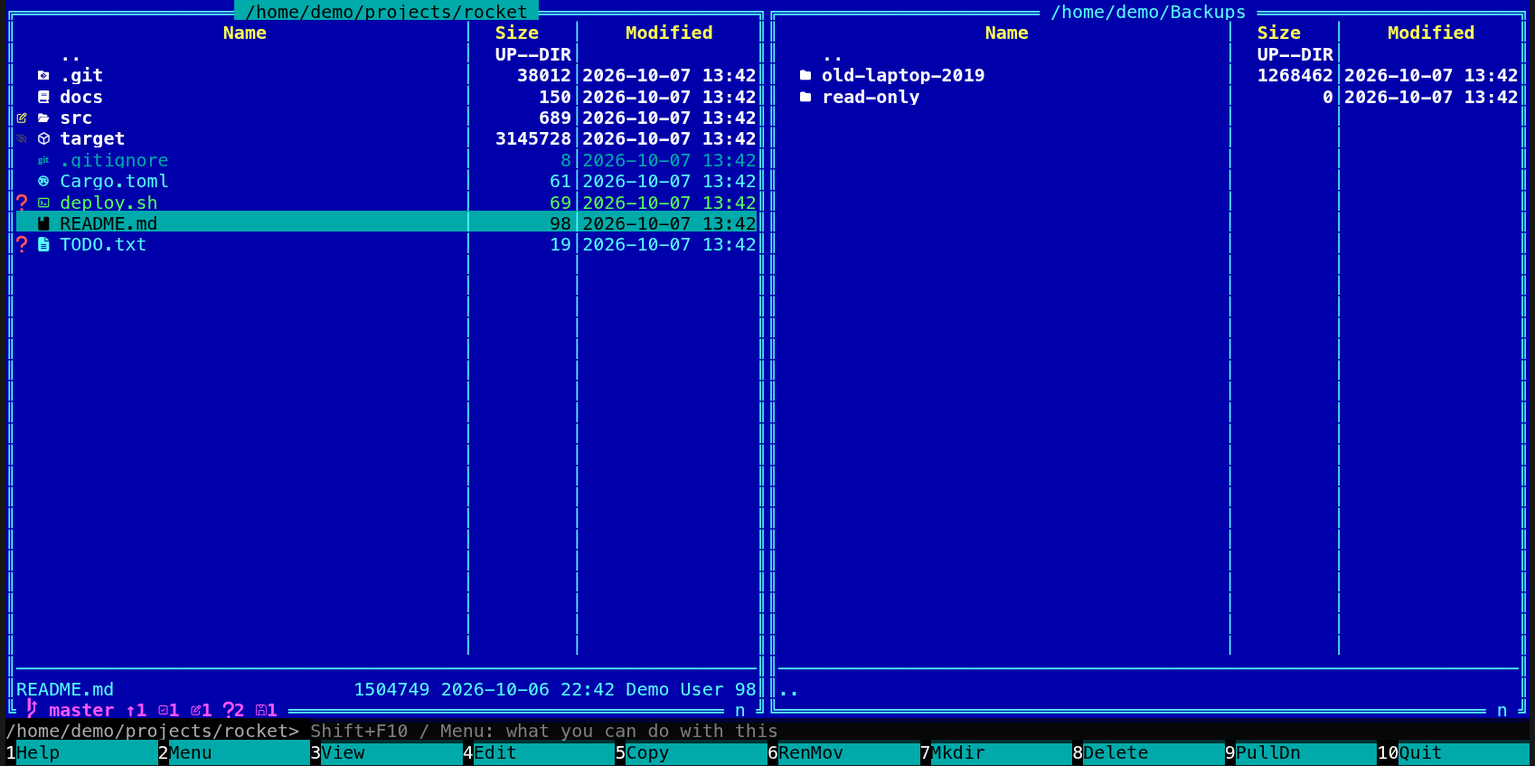
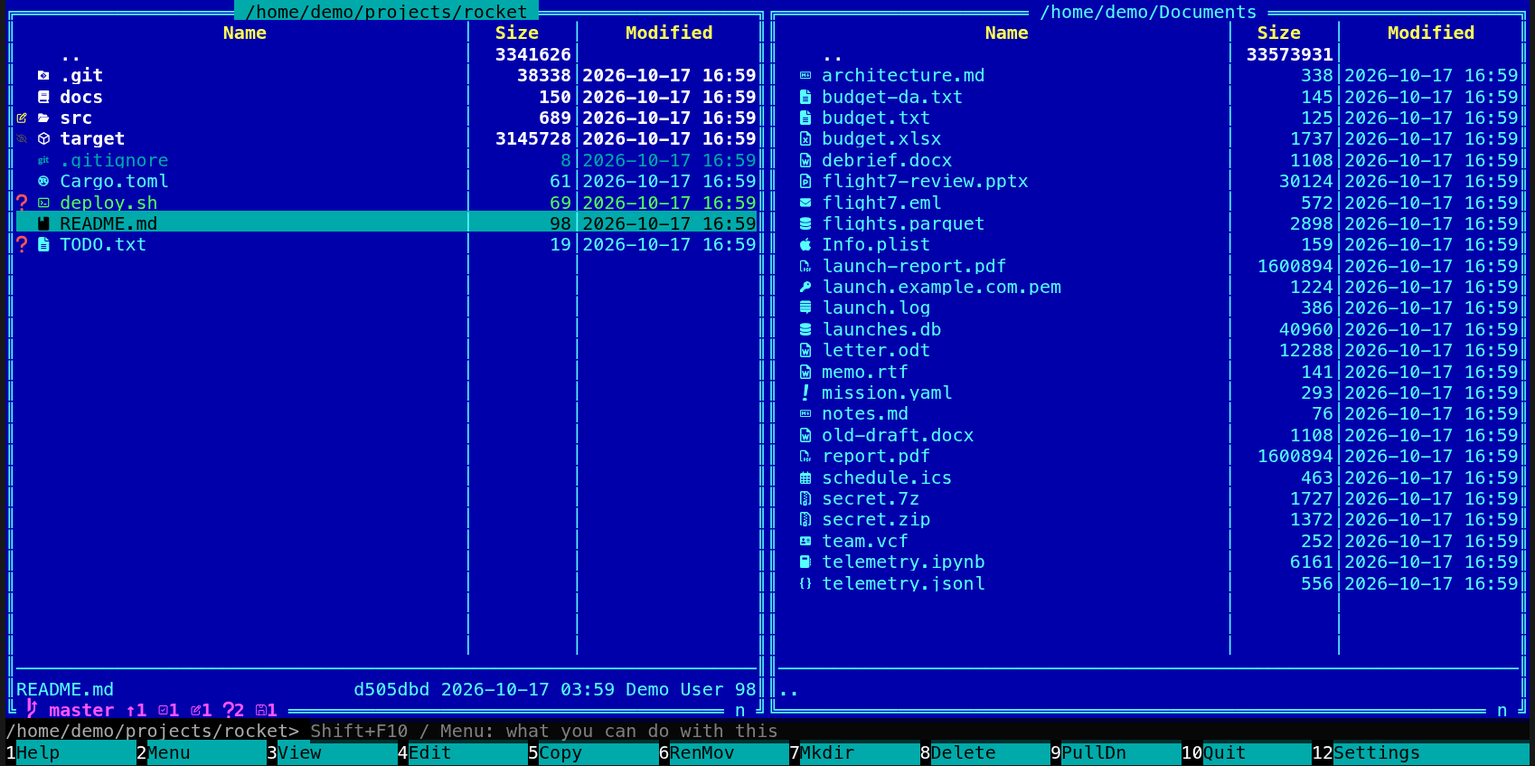
Settings easy to find in the terminal app: F12 on the key bar and in the action menu, a word when Ctrl+O hides the panels, and the coxswain at the helm (2.26.1)

diff --git a/crates/coxswain/src/lib.rs b/crates/coxswain/src/lib.rs
@@ -2586,6 +2586,8 @@ fn run_in(sh: &str, flag: &str, cmd: &str, dir: &Path, wait: bool) -> std::io::R
 
 fn main_loop(term: &mut DefaultTerminal, app: &mut App) -> std::io::Result<()> {
     let mut state = app.index.state();
+    // A command has run: Ctrl+O shows its output, or says there is none yet.
+    let mut ran = false;
     // A file operation still running when asked to quit finishes first: cut short, it
     // would leave half a file behind.
     while !app.quit || app.job.is_some() {
@@ -2593,6 +2595,7 @@ fn main_loop(term: &mut DefaultTerminal, app: &mut App) -> std::io::Result<()> {
         match app.run.take() {
             Some(Run::Shell { cmd, dir, wait }) => {
                 suspended(term, || run_shell(&cmd, &dir, wait))?;
+                ran = true;
                 // The setup guide, run from Find, changes the search settings.
                 // An entry added to the user menu shows at once.
                 if let Ok(cfg) = Config::load() {
@@ -2606,9 +2609,18 @@ fn main_loop(term: &mut DefaultTerminal, app: &mut App) -> std::io::Result<()> {
                 app.reload();
             }
             Some(Run::ShowOutput) => suspended(term, || {
-                // Any key returns to the panels.
+                // A line under the output says what happened; any key returns to the panels
+                // and takes the line away again.
+                use ratatui::crossterm::style::{Attribute, Print, SetAttribute};
                 let _ = terminal::enable_raw_mode();
+                let mut out = std::io::stdout();
+                if cursor::position().is_ok_and(|(x, _)| x > 0) {
+                    let _ = execute!(out, Print("\r\n"));
+                }
+                let say = t!(if ran { "tui.panels_hidden" } else { "tui.panels_hidden_none" });
+                let _ = execute!(out, SetAttribute(Attribute::Reverse), Print(say), SetAttribute(Attribute::Reset));
                 while !matches!(event::read(), Ok(Event::Key(k)) if k.kind == KeyEventKind::Press) {}
+                let _ = execute!(out, Print("\r"), terminal::Clear(terminal::ClearType::CurrentLine));
                 let _ = terminal::disable_raw_mode();
             })?,
             None => {}
@@ -3686,11 +3698,12 @@ mod wide_letters {
             let text: Vec<usize> = (0..info.len()).filter(|&x| info[x] != " ").collect();
             let (l, r) = (text[0], info.len() - 1 - text[text.len() - 1]);
             assert!(l.abs_diff(r) <= 2, "{lang}: not centred: {}", info.concat());
-            // The key bar: each key number in its own slot.
+            // The key bar: each key number in its own slot, F12 (Settings) in the eleventh.
             let bar = &s[23];
             for n in 1..=9 {
-                assert_eq!(bar[(n - 1) * 8], n.to_string(), "{lang}: {}", bar.concat());
+                assert_eq!(bar[(n - 1) * 7], n.to_string(), "{lang}: {}", bar.concat());
             }
+            assert_eq!(bar[70..72].concat(), "12", "{lang}: {}", bar.concat());
             // Find, with a Japanese query, and a dialog with a long Korean text.
             app.dialog = Some(Dialog::Search { query: "日本語 보고서".into(), chip: Kind::All, here: false, found: Found::default(), cursor: 0, offset: 0, show: Show::List });
             let s = draw(&mut app);

diff --git a/crates/coxswain-core/src/menu.rs b/crates/coxswain-core/src/menu.rs
@@ -107,24 +107,24 @@ impl Action {
             Duplicates => disk && (s.folders > 0 || n == 0),
             // On `..` with nothing marked: the panels themselves.
             SwapPanels | SameDir | TogglePanels => n == 0,
-            // What Coxswain can do, from any menu.
-            Features => true,
+            // What Coxswain can do, and Settings, from any menu.
+            Features | Settings => true,
             _ => false,
         }
     }
 }
 
-/// The headings the action menu shows, in its order: opening and looking first, the app (what
-/// Coxswain can do) last.
+/// The headings the action menu shows, in its order: opening first, then the app (Settings,
+/// what Coxswain can do), so Settings is found near the top, then looking and the rest.
 const GROUPS: [Group; 8] = [
     Group::Moving,
+    Group::App,
     Group::Viewing,
     Group::Files,
     Group::Archives,
     Group::Search,
     Group::Git,
     Group::Panels,
-    Group::App,
 ];
 
 /// The action menu for `s`: under each heading the actions that fit, the most used first.
@@ -155,6 +155,7 @@ const HINTS: &[(&str, &[(&str, Action)])] = &[
     ("menu", &[("key", Action::ActionMenu)]),
     ("find", &[("key", Action::Search)]),
     ("features", &[("key", Action::Help)]),
+    ("settings", &[("key", Action::Settings)]),
     ("quick", &[]),
     (
         "panels",
@@ -191,7 +192,7 @@ fn fits(id: &str, s: &Subject) -> bool {
     let disk = s.place == Place::Disk;
     match id {
         "menu" => s.count() > 0,
-        "find" | "features" => true,
+        "find" | "features" | "settings" => true,
         "quick" => disk && s.count() > 0,
         "panels" => disk && s.count() == 0,
         "marked" => s.marked > 1 && s.writable(),
@@ -331,9 +332,9 @@ mod tests {
         };
         let n = names(&file, true);
         assert_eq!(
-            &n[..3],
-            ["open", "view", "edit"],
-            "opening and looking first: {n:?}"
+            &n[..5],
+            ["open", "features", "settings", "view", "edit"],
+            "opening first, Settings near the top, then looking: {n:?}"
         );
         for a in ["copy", "move", "rename", "delete", "pack", "properties"] {
             assert!(n.contains(&a), "{a} in {n:?}");
@@ -481,6 +482,9 @@ mod tests {
         assert_eq!(pick(&folder, &cfg, &shown).map(|h| h.0), Some("features"));
         assert!(pick(&folder, &cfg, &shown).unwrap().1.contains("F1"));
         shown.insert("features".to_string(), TIMES);
+        assert_eq!(pick(&folder, &cfg, &shown).map(|h| h.0), Some("settings"));
+        assert!(pick(&folder, &cfg, &shown).unwrap().1.contains("F12"));
+        shown.insert("settings".to_string(), TIMES);
         assert_eq!(pick(&folder, &cfg, &shown).map(|h| h.0), Some("quick"));
         shown.insert("quick".to_string(), TIMES);
         let parent = Subject::default();

diff --git a/crates/coxswain/src/ui.rs b/crates/coxswain/src/ui.rs
@@ -346,17 +346,22 @@ fn cmdline(f: &mut Frame, app: &App, area: Rect) {
 
 fn keybar(f: &mut Frame, app: &App, area: Rect) {
     let t = &app.theme;
-    let slot = area.width as usize / 10;
+    // F1 to F10 as in NC, then F11 and F12 when they run something (F12: Settings).
+    let fkey = |n| app.keymap.get(&Key::new(KeyCode::F(n), false, false, false));
+    let keys: Vec<u8> = (1..=12u8).filter(|&n| n <= 10 || fkey(n).is_some()).collect();
+    let slot = area.width as usize / keys.len();
     let mut spans = vec![];
-    for n in 1..=10u8 {
+    for (i, &n) in keys.iter().enumerate() {
         // The keymap, so the bar names the action the key runs when two share it.
         // Norton Commander's short words where the plain ones do not fit: RenMov, Mkdir, PullDn.
-        let label = app.keymap.get(&Key::new(KeyCode::F(n), false, false, false)).map_or(String::new(), |a| match a {
+        let label = fkey(n).map_or(String::new(), |a| match a {
             Action::Move | Action::NewFolder | Action::Menu => t!(&format!("tui.keybar.{}", a.name())),
             a => a.label(),
         });
         let num = n.to_string();
-        let lw = slot.saturating_sub(num.len());
+        // The last slot takes what is left over, so "12Settings" fits in 80 columns.
+        let w = if i + 1 == keys.len() { area.width as usize - slot * i } else { slot };
+        let lw = w.saturating_sub(num.len());
         spans.push(Span::styled(num, sty(&t.keybar_num)));
         spans.push(Span::styled(fit(&label, lw), sty(&t.keybar_label)));
     }

diff --git a/crates/coxswain-core/src/config.rs b/crates/coxswain-core/src/config.rs
@@ -270,7 +270,8 @@ actions! {
     // F1's second tab, and F1 inside a dialog: no key of its own.
     Features = "features", "Features and questions", App, [];
     Menu = "menu", "Commands", App, ["F9"];
-    Settings = "settings", "Settings", App, ["Ctrl+,"];
+    // F12 too: most terminals never pass Ctrl+, on, and every one passes F12.
+    Settings = "settings", "Settings", App, ["Ctrl+,", "F12"];
     // Settings at Disk use: from F9 and the action menu, no key of its own.
     DiskUse = "disk_use", "Disk use", App, [];
     Quit = "quit", "Quit", App, ["F10"];

diff --git a/README.md b/README.md
@@ -125,8 +125,8 @@ from source: [install/INSTALL.md](install/INSTALL.md). Git glyphs want a
    `coxswain --setup-search` ([the guide](docs/search/setup.md)).
 5. **Type** a command and press **Enter**: it runs in the panel's folder.
 6. **Settings**, sorted by task (Finding files, Previews, Looks, Behaviour, Keys, Privacy and
-   updates): **Ctrl+,** in the desktop app, **F9** → *Settings* or `coxswain --settings` in the
-   terminal app. In the desktop app, **Space** shows the preview pane.
+   updates): **Ctrl+,** or the gear button in the desktop app, **F12** (*Settings* at the right end
+   of the key bar), **Shift+F10** → *Settings* or **F9** → *Settings* in the terminal app. In the desktop app, **Space** shows the preview pane.
 7. Not sure what you can do with a file? **Shift+F10** (or the **Menu** key, or the **⋯** on the
    row) lists what fits it, each with its key: pack, extract, rename, history
    ([The action menu](docs/panels/action-menu.md)). Forgot a key? **F9** lists every command,
@@ -176,6 +176,7 @@ Newest first. Downloads for each release are on the [releases page](https://gith
 
 | Version | Date | What's new |
 |---|---|---|
+| **2.26.1** | 2026-10-17 | **Settings you can find in the terminal app, and a word when the panels hide.** The terminal app's key bar ends in *12 Settings*: **F12** opens Settings in every terminal, where most never pass **Ctrl+,** on (the desktop app takes **F12** too). Settings is also near the top of the **Shift+F10** action menu, and a hint names its keys the first few times. **Ctrl+O** no longer just makes the panels vanish: a line under the output says *Panels hidden · any key brings them back*, or that no command has run yet. And F1's line now calls the coxswain what it is: the one at the helm, in every language. [Opening Settings](docs/customise/settings.md#opening-it) |
 | **2.26.0** | 2026-10-17 | **How far behind, and as of when.** Hover the git line in the desktop app, or put the cursor on `..` in the terminal app, for the branch's upstream with the commits ahead and behind, the time of the last fetch and the remote's URL (with any password or token left out). A repository's folder in a listing, such as a project in `~/projects` or a submodule, shows its git line and the same facts when you hover it or put the cursor on it. They are read only when you point at them, never for a whole folder, and Coxswain still never fetches. [Upstream, remote and last fetch](docs/panels/git.md#upstream-remote-and-last-fetch) |
 | **2.25.0** | 2026-10-16 | **Themes in groups, and a word about your graphics card.** Settings in both apps lists the 33 themes the way the languages are listed by region: Coxswain's own, the file managers of the DOS years, Windows, Mac, other desktops and home computers, then your own. A PC with a graphics card and no model server is told, in the setup guide and once as a notice, that a local Ollama would run search by meaning and Ask on the card much faster, with the install line for FreeBSD (`pkg install ollama`, Vulkan), Linux or Windows; Intel cards and FreeBSD's AMD and Intel cards are now detected. `..` shows the size of the folder above when it is already known. [Themes](docs/customise/themes.md) · [Setup](docs/search/setup.md#a-graphics-card-and-no-server) · [Folder sizes](docs/panels/folder-sizes.md) |
 | **2.24.4** | 2026-10-16 | **FreeBSD tried by hand, and what it found.** Find shows names in folders made since the search helper started within a second on FreeBSD, the other BSDs and illumos (and new top-level folders on Linux), and lists a name that is exactly your query first, then hits in your home folder. The desktop app's sidebar shows the right free space on the BSDs; `coxswain-gui --version` and `--help` work, and without a display it says so instead of crashing. Folder sizes update after copy, move, delete, new folder, pack, extract and undo, in both apps; after **Ctrl+Z** the cursor is on what came back; Properties shows owner and group by name. On the BSDs and illumos, Previews names the program to install instead of podman or docker, and *Never indexed* lists that system's own folders. An older Coxswain no longer throws away the vectors a newer one made. sevenz-rust2 0.24 (a 7z written with a CRC of exactly 0 opens again) and zip 9.0.4. [FreeBSD](docs/reference/freebsd.md) |
@@ -185,6 +186,5 @@ Newest first. Downloads for each release are on the [releases page](https://gith
 | **2.24.0** | 2026-10-15 | **The classics: fifteen more themes, and a tube for any of them.** Amiga Workbench 1.3, the home of Directory Opus, with a look of its own; XTree Gold, DOS Shell and Midnight Commander beside Norton Commander blue; the home computers Commodore 64, ZX Spectrum, Amstrad CPC, MSX, BBC Micro and Atari ST (with a GEM look); Amber and Paper white beside Cyber; NeXTSTEP and BeOS with looks of their own, and OS/2 Warp. `crt = true` in a theme of your own puts Cyber's scanlines and glow over any look. [Themes](docs/customise/themes.md) · [Looks](docs/customise/looks.md#the-tube) |
 | **2.23.1** | 2026-10-14 | **TLS library brought up to date.** rustls 0.23.46 closes four advisories published today (RUSTSEC-2026-0346 to 0349: a `Debug` print that could show session secrets, data sent on after a rejected ECH, an oversized certificate allocation, and a key-exchange downgrade), in every connection the apps make: the update check, model downloads and remote model servers. No advisories open. [Security](docs/reference/security.md) |
 | **2.23.0** | 2026-10-14 | **Measure the speed of search by meaning.** *Measure speed* on the *Meaning* line of Settings → Finding files (both apps), or `coxswain --meaning bench`, embeds 64 passages with your model and says how many a second it does and what the files still to go would take; `coxswain --meaning bench URL MODEL` tries another server first, without changing anything. [Search by meaning](docs/search/meaning.md#how-fast-is-it-here-and-would-another-model-be-faster) |
-| **2.22.1** | 2026-10-14 | **Search by meaning: a time left that holds, and dense files cost less.** The time left in Settings and Find counts the passages still to go, not the files, so a few long files at the head of the queue no longer turn it into a thousand hours. A server is shown at most 1,200 characters of a passage (2,000 before): prose is never that long, a line of minified JSON or paths was three passages' worth. An app whose helper is busy with a big change waits for it instead of switching to its own index until restarted, and a helper that finds the store locked for a moment waits too instead of leaving reading off. [Search by meaning](docs/search/meaning.md#why-does-it-find-nothing-yet) |
 
 All versions, back to 1.0.0: [the full changelog](docs/changelog.md).

diff --git a/docs/panels/action-menu.md b/docs/panels/action-menu.md
@@ -11,7 +11,7 @@ it*.
 
 <picture><source media="(prefers-reduced-motion: reduce)" srcset="../screenshots/action-menu.png"><img src="../screenshots/action-menu.gif" alt="The desktop app: the cursor on the folder src, Shift+F10 opens What to do with &quot;src&quot; with Open, Path to command line, Copy, Move, Rename, Delete, New folder, Pack into an archive and the git entries under their headings; Down moves to Rename, Enter asks for the new name"></picture>
 
-![The terminal app's action menu on a file: What to do with "README.md", with Open, View, Edit and Path to command line under Moving and Viewing, Copy, Move, Rename, Delete, New folder and Properties under Files, Pack under Archives, Git history, Git branches and Git worktrees under Git, Features and questions under App](../screenshots/action-menu-tui.png)
+![The terminal app's action menu on a file: What to do with "README.md", with Open under Moving, Features and questions and Settings (Ctrl+,) under App, View, Edit and Path to command line under Viewing, Copy, Move, Rename, Delete, New folder and Properties under Files, Pack under Archives, Find, Find in files and Ask under Search, Git history, Git branches and Git worktrees under Git; the key bar ends in 12 Settings](../screenshots/action-menu-tui.png)
 
 - [Opening the menu](#opening-the-menu)
 - [What it lists](#what-it-lists)
@@ -49,13 +49,13 @@ asks first (unless you turned that off).
 ## What it lists
 
 The actions that fit, under the headings of the [command list](command-list.md), in this order:
-opening and looking first, then files, archives, search, git, the panels and the app; in each
-heading the most used first (*Moving*, *Viewing*, *Files*, *Archives*, *Search*, *Git*, *Panels*,
-*App*).
+opening first, then the app (Features and questions, Settings), so Settings is near the top,
+then looking, files, archives, search, git and the panels; in each heading the most used first
+(*Moving*, *App*, *Viewing*, *Files*, *Archives*, *Search*, *Git*, *Panels*).
 
 | Under the cursor (or marked) | The menu lists |
 |---|---|
-| Anything, anywhere | Find (**Alt+F7**, **Ctrl+F**), Search inside files (**Shift+F7**), Ask your files (**Ctrl+F7**) under *Search*; [Features and questions](features.md) under *App* |
+| Anything, anywhere | Find (**Alt+F7**, **Ctrl+F**), Search inside files (**Shift+F7**), Ask your files (**Ctrl+F7**) under *Search*; [Features and questions](features.md) and [Settings](../customise/settings.md) (**Ctrl+,**, **F12**) under *App* |
 | A file | Open, View (**F3**), Edit (**F4**), Path to command line (**Ctrl+Enter**), Folder notes (**Alt+N**, desktop app), Copy (**F5**), Move (**F6**), Rename (**Shift+F6**), Delete (**F8**), New folder (**F7**), Copy to clipboard (**Ctrl+C**, desktop app), Properties (**Alt+Enter**), Colour tag (**Alt+T**, desktop app), Pack into an archive (**Alt+F5**) |
 | A folder | Open, Path to command line, Folder notes, Copy, Move, Rename, Delete, New folder, Copy to clipboard, Properties, Colour tag, Pack into an archive, Find duplicates (**Ctrl+D**, desktop app) |
 | An archive (zip, tar, 7z …) | What a file has, and Extract archive (**Ctrl+E**); Open goes into it like a folder |
@@ -86,6 +86,7 @@ the cursor, in a dim colour. The first ones teach the menu itself; then they tea
 | Anything | *Shift+F10 / Menu: what you can do with this* |
 | Anywhere | *Alt+F7 / Ctrl+F finds anything on this machine* |
 | Anywhere | *F1 → Features: everything Coxswain can do, with questions answered* ([Features and questions](features.md)) |
+| Anywhere | *Ctrl+, / F12 opens Settings: theme, keys, language and every other option* ([Settings](../customise/settings.md)) |
 | A file or folder | *Alt+letter jumps to a name: type how it starts* ([Quick search](quick-search.md)) |
 | `..`, nothing marked | *Ctrl+U swaps the panels · Alt+O shows this folder in the other one · Ctrl+O panels on or off* |
 | Several marked | *F5 copies them to the other panel · F6 moves them* |

diff --git a/docs/customise/settings.md b/docs/customise/settings.md
@@ -35,7 +35,8 @@ once and is written to the file, your comments kept.
 
    | Way | Opens at |
    |---|---|
-   | **Ctrl+,** anywhere in the window (the `settings` action; see [Changing keys](keys.md)) | Overview |
+   | **Ctrl+,** or **F12** anywhere in the window (the `settings` action; see [Changing keys](keys.md)) | Overview |
+   | **Shift+F10** → *Settings* in the [action menu](../panels/action-menu.md), near the top | Overview |
    | **F9** → *Settings* in the [command list](../panels/command-list.md) | Overview |
    | The **Settings** button with a gear, at the right end of the command line row. Its tooltip names the key and, when tips or versions wait, how many and where: *Settings · Ctrl+, · What's new: 2, under Overview* | Overview, where *What's new* is ([Notices and what's new](../search/notices.md)) |
    | **Show me** on a tip under *What's new* | The tip's area: the meaning and Ollama tips open *Finding files* at *Meaning*, the tesseract and cloud tips *Finding files*, a new language *Looks* at *Language*, the 2.0 renaming notice *Keys* |
@@ -373,8 +374,10 @@ explanations and costs: both apps read them from one description in `coxswain-co
 
 | Way | Opens at |
 |---|---|
+| **F12**: *12 Settings* at the right end of the F-key bar | Overview |
+| **Shift+F10** → *Settings* in the [action menu](../panels/action-menu.md), near the top | Overview |
 | **F9** → *Settings* in the [command list](../panels/command-list.md) | Overview |
-| **Ctrl+,** (the `settings` action), in terminals that pass it on | Overview |
+| **Ctrl+,** (the `settings` action's other key), in terminals that pass it on | Overview |
 | `coxswain --settings` | Overview, with both panels in the current folder |
 | `coxswain --settings=<area>` | That area: `overview`, `search`, `previews`, `looks`, `behaviour`, `keys`, `privacy` |
 | `coxswain --settings=<option>` | The option's area, the cursor on it: `show_hidden`, `search_meaning`, `ask_model`, `language`, `check_updates` … (the names in [Settings and config.toml](#settings-and-configtoml)) |
@@ -382,6 +385,9 @@ explanations and costs: both apps read them from one description in `coxswain-co
 | **Enter** on a tip under *What's new* in Overview | The tip's area, as *Show me* in the desktop app; the tip is not shown again |
 
 Folders after the flag open in the panels, as without it: `coxswain --settings=search ~/src`.
+
+The first few times, the empty command line says so too: *Ctrl+, / F12 opens Settings: theme,
+keys, language and every other option*.
 
 ### The keys
 
@@ -544,11 +550,12 @@ updates* lists what can leave with your settings as they are, and where to.
 
 #### Where is the Settings key if Ctrl+, does nothing?
 
-`Ctrl+,` is the default of the `settings` action; if you rebound it in `[keys]`, the gear
-button's tooltip shows the key it has now, and so does *Keys* in Settings. **F9** → *Settings*
-and the gear button always work. Most terminals send **Ctrl+,** as a plain comma or not at all,
-so in the terminal app use **F9** → *Settings* or `coxswain --settings`, or give the action a key
-the terminal passes on, such as `settings = ["Alt+,"]` under `[keys]` ([Changing keys](keys.md)).
+**Ctrl+,** and **F12** are the defaults of the `settings` action; if you rebound them in
+`[keys]`, the gear button's tooltip shows the key it has now, and so does *Keys* in Settings.
+Most terminals send **Ctrl+,** as a plain comma or not at all, so the terminal app has **F12**
+too, and shows it as *12 Settings* at the right end of the F-key bar. **Shift+F10** →
+*Settings* (near the top of the action menu), **F9** → *Settings*, the gear button in the
+desktop app and `coxswain --settings` always work.
 
 #### What does Clear under "Previews made so far" remove?
 

diff --git a/docs/changelog.md b/docs/changelog.md
@@ -6,6 +6,7 @@ Every version, newest first. Downloads are on the [releases page](https://github
 
 | Version | Date | What's new |
 |---|---|---|
+| **2.26.1** | 2026-10-17 | **Settings you can find in the terminal app, and a word when the panels hide.** The terminal app's key bar ends in *12 Settings*: **F12** opens Settings in every terminal, where most never pass **Ctrl+,** on (the desktop app takes **F12** too). Settings is also near the top of the **Shift+F10** action menu, and a hint names its keys the first few times. **Ctrl+O** no longer just makes the panels vanish: a line under the output says *Panels hidden · any key brings them back*, or that no command has run yet. And F1's line now calls the coxswain what it is: the one at the helm, in every language. [Opening Settings](customise/settings.md#opening-it) |
 | **2.26.0** | 2026-10-17 | **How far behind, and as of when.** Hover the git line in the desktop app, or put the cursor on `..` in the terminal app, for the branch's upstream with the commits ahead and behind, the time of the last fetch and the remote's URL (with any password or token left out). A repository's folder in a listing, such as a project in `~/projects` or a submodule, shows its git line and the same facts when you hover it or put the cursor on it. They are read only when you point at them, never for a whole folder, and Coxswain still never fetches. [Upstream, remote and last fetch](panels/git.md#upstream-remote-and-last-fetch) |
 | **2.25.0** | 2026-10-16 | **Themes in groups, and a word about your graphics card.** Settings in both apps lists the 33 themes the way the languages are listed by region: Coxswain's own, the file managers of the DOS years, Windows, Mac, other desktops and home computers, then your own. A PC with a graphics card and no model server is told, in the setup guide and once as a notice, that a local Ollama would run search by meaning and Ask on the card much faster, with the install line for FreeBSD (`pkg install ollama`, Vulkan), Linux or Windows; Intel cards and FreeBSD's AMD and Intel cards are now detected. `..` shows the size of the folder above when it is already known. [Themes](customise/themes.md) · [Setup](search/setup.md#a-graphics-card-and-no-server) · [Folder sizes](panels/folder-sizes.md) |
 | **2.24.4** | 2026-10-16 | **FreeBSD tried by hand, and what it found.** Find shows names in folders made since the search helper started within a second on FreeBSD, the other BSDs and illumos (and new top-level folders on Linux), and lists a name that is exactly your query first, then hits in your home folder. The desktop app's sidebar shows the right free space on the BSDs; `coxswain-gui --version` and `--help` work, and without a display it says so instead of crashing. Folder sizes update after copy, move, delete, new folder, pack, extract and undo, in both apps; after **Ctrl+Z** the cursor is on what came back; Properties shows owner and group by name. On the BSDs and illumos, Previews names the program to install instead of podman or docker, and *Never indexed* lists that system's own folders. An older Coxswain no longer throws away the vectors a newer one made. sevenz-rust2 0.24 (a 7z written with a CRC of exactly 0 opens again) and zip 9.0.4. [FreeBSD](reference/freebsd.md) |

diff --git a/docs/commands/command-line.md b/docs/commands/command-line.md
@@ -83,7 +83,7 @@ without the AppImage's own libraries in their environment.
 | While it runs | The panels step aside. The terminal shows `/home/demo/projects/rocket> git log` and then the command's own output; the program has the real terminal and can read keys | The status line says *Running git log…*. The app stays usable |
 | Afterwards | The panels come back at once | The [preview pane](../previews/README.md) opens and shows the output, headed with the command in bold and *Command output* under it |
 | Output shown | As the program writes it | Standard output, then standard error, then `[exit status: 1]` on a line of its own when it failed. A command that printed nothing shows *(no output)* |
-| Look again | **Ctrl+O** (*Panels on/off*) hides the panels and shows the terminal with the last output; any key brings the panels back | The `×` in the output's header (*Close the command output and show the preview again*) goes back to the file preview; **Esc**, **F3** or **Space** close the pane |
+| Look again | **Ctrl+O** (*Panels on/off*) hides the panels and shows the terminal with the last output, with *Panels hidden · any key brings them back* under it (*No command has run yet · any key brings the panels back* before the first); any key brings the panels back | The `×` in the output's header (*Close the command output and show the preview again*) goes back to the file preview; **Esc**, **F3** or **Space** close the pane |
 | `cd` to a folder that is not there | Status line: *cd: no such folder: foo* | Status line: the error, for example `/home/demo/foo: No such file or directory (os error 2)`, and the panel stays |
 
 ## Settings and config.toml
@@ -112,8 +112,10 @@ cannot ask for your password. Use a terminal, or the terminal app, for those.
 
 #### The output flashed by in the terminal app. Where is it?
 
-Press **Ctrl+O**: the panels hide and the terminal shows what the command printed. Any key
-brings the panels back. For commands whose output you always want to read, put them in the
+Press **Ctrl+O**: the panels hide and the terminal shows what the command printed, with
+*Panels hidden · any key brings them back* in reverse video under it. Any key brings the panels
+back and takes that line away. Before any command has run the line says *No command has run yet
+· any key brings the panels back*. For commands whose output you always want to read, put them in the
 [user menu](user-menu.md) with `wait = true`, which waits for **Enter** before the panels return.
 
 #### How do I stop a command that runs too long in the desktop app?

diff --git a/docs/panels/the-screen.md b/docs/panels/the-screen.md
@@ -56,8 +56,8 @@ skips it. **F1** → *Show the guide again* (desktop app), **F1** then **G** (te
 | Sort order | A letter bottom right: `n` name, `x` extension, `t` time, `s` size; upper case when reversed | An arrow next to the column header that sorts ([Sorting](sorting.md)) |
 | Command line | The row under the panels: `/home/demo/projects/rocket> ` | The row under the panes: the folder, `❯`, and *Type a command…* |
 | Status | In the command line row, until the next key | Right of the command line, until the next key |
-| Settings | – (**F9** → *Settings*) | *Settings* with a cog, at the right of the command line row. Its tooltip: *Settings · Ctrl+, · What's new: 2, under Overview*; a click opens Settings at *Overview* |
-| F-key bar | The bottom row: the number and label of **F1** to **F10** | The bottom row of buttons; a key with no action is greyed |
+| Settings | *12 Settings* at the right end of the F-key bar (**F12**) | *Settings* with a cog, at the right of the command line row. Its tooltip: *Settings · Ctrl+, · What's new: 2, under Overview*; a click opens Settings at *Overview* |
+| F-key bar | The bottom row: the number and label of **F1** to **F10**, then **F11** and **F12** when they have an action (**F12**: *Settings*) | The bottom row of buttons; a key with no action is greyed |
 | Window title | The terminal's title: `Coxswain X.Y.Z` | The window's title, the same text |
 
 The F-key labels:
@@ -74,6 +74,7 @@ The F-key labels:
 | **F8** | *Delete* | *Delete* |
 | **F9** | *PullDn* | *Commands* |
 | **F10** | *Quit* | *Quit* |
+| **F12** | *Settings* | – (the gear button at the right of the command line row) |
 
 They follow your `[keys]`: bind another action to **F2** and its name shows there (two actions
 on one key: the one the key runs).

diff --git a/docs/panels/command-list.md b/docs/panels/command-list.md
@@ -81,7 +81,7 @@ and saves it in `config.toml`. *Up*, *Down* and the list itself are left out.
 
 | | Terminal app | Desktop app |
 |---|---|---|
-| Title | *Help*, then `Coxswain X.Y.Z — the ship's officer who gets the work done.` | `Coxswain X.Y.Z · keyboard shortcuts` |
+| Title | *Help*, then `Coxswain X.Y.Z — the one at the helm who gets the work done.` | `Coxswain X.Y.Z · keyboard shortcuts` |
 | Keys | *Keys (from your config):* every action it has, with all its keys, under the group headings; in two columns when the terminal is wide enough (about 100 columns), else in one | Every action with all its keys, written as on the keyboard (`Ctrl+G`), under the group headings |
 | Also | Alt+letter quick search, typing goes to the command line, `cd`, Ctrl+O, the mouse, and *In a prompt Ctrl+U clears the text.* | Three paragraphs: the mouse (*Mouse: double-click opens · Ctrl-click marks · right-click marks or opens the action menu (Settings → Behaviour → Right-click), Ctrl+right-click does the other · Shift-click marks a range · middle-click on a tab closes it · drag …*), [quick search](quick-search.md) (*Quick search: hold Alt and type a letter …*), and what **Left** and **Right** do in each [view](views.md) (*details, a page up or down · columns, out to the parent folder or into the folder under the cursor · thumbnails, one to the left or right*) |
 | Search | *Find (Everything syntax):* with one example per line | *Find uses Everything's syntax:* with the examples |

diff --git a/docs/README.md b/docs/README.md
@@ -124,7 +124,7 @@ New here? Start with [The first-run guide](panels/first-run.md), [The screen](pa
 | Page | What it covers |
 |---|---|
 | [Customising](customise/README.md) | The Settings window, themes, looks, languages, keys, glyphs and fonts, with the main keys |
-| [The Settings window](customise/settings.md) | Opening it (Ctrl+, F9, --settings=search|search_meaning), its areas from Overview to Privacy and updates, Find a setting, every item with its config.toml key, how saving keeps comments, the terminal app's Settings (F9, --settings) and flags |
+| [The Settings window](customise/settings.md) | Opening it (Ctrl+, F12, Shift+F10, F9, --settings=search|search_meaning), its areas from Overview to Privacy and updates, Find a setting, every item with its config.toml key, how saving keeps comments, the terminal app's Settings (F9, --settings) and flags |
 | [Themes](customise/themes.md) | The 33 built-in themes, picking one in each app (Settings, F9 "Theme: …", `theme` / `[gui] theme`), what the terminal app takes |
 | [Looks](customise/looks.md) | The desktop app's corners, bevels, title bars and era fonts per theme, `look =` in your own theme |
 | [Your own theme and the colour slots](customise/own-theme.md) | Your own theme: `[themes.<name>]`, starting from --dump-config, colour names vs #rrggbb, every colour slot and where each app uses it |
